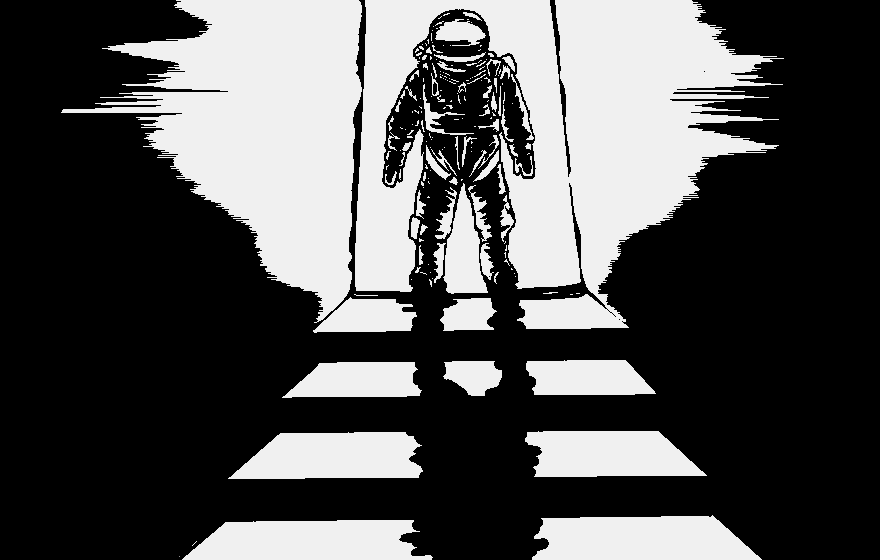
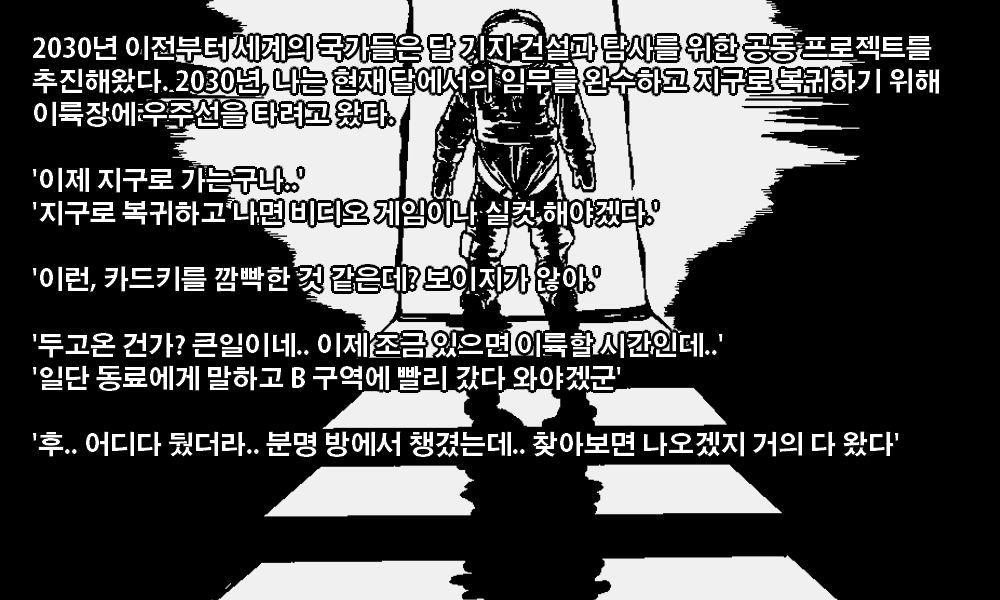
prolog 최종본

Changed region(s): [[0.0307, 0.0, 0.9511, 0.8804], [0.583, 0.9107, 0.8591, 1.0], [0.2148, 0.9107, 0.4909, 1.0]]

diff --git a/Demo/prolog_1.py b/Demo/prolog_1.py
@@ -55,7 +55,7 @@ on = False
 def maprun():
     global on
 
-    move_button = button("Next", 80, 30, 900, 20)
+    move_button = button("Next", 80, 30, 900, 545)
     move_button.color = (70,70,70)
     move_button.textcolor = (0,0,0)
     move_button.textsize = 22
@@ -66,7 +66,7 @@ def maprun():
     run = True
 
     image2 = pygame.image.load("images/prolog1.png") # 임시 파일
-    image2 = pygame.transform.scale(image2, (1000, 800))
+    image2 = pygame.transform.scale(image2, (1000, 600))
 
     while run:
         # 세팅 [ 건드리지 말아야 할 것]

diff --git a/Demo/but.py b/Demo/but.py
@@ -417,12 +417,8 @@ def drawui():
         hunger -= 1
     if hunger < 1: # game over
         hunger = 0
-<<<<<<< HEAD
-        import game_over
-=======
         die()
         # import game_over
->>>>>>> 35c4abc6af16c422793f4e5185a5b4f29eb49ad6
 
     if itemui.intro2[0] in item_f:
         if type(item_f[itemui.intro2[0]]) == int:

diff --git a/Demo/prolog_2.py b/Demo/prolog_2.py
@@ -55,7 +55,7 @@ def maprun():
     run = True
 
     image2 = pygame.image.load("images/prolog2.png") # 임시 파일
-    image2 = pygame.transform.scale(image2, (1000, 800))
+    image2 = pygame.transform.scale(image2, (1000, 545))
 
     while run:
         # 세팅 [ 건드리지 말아야 할 것]
